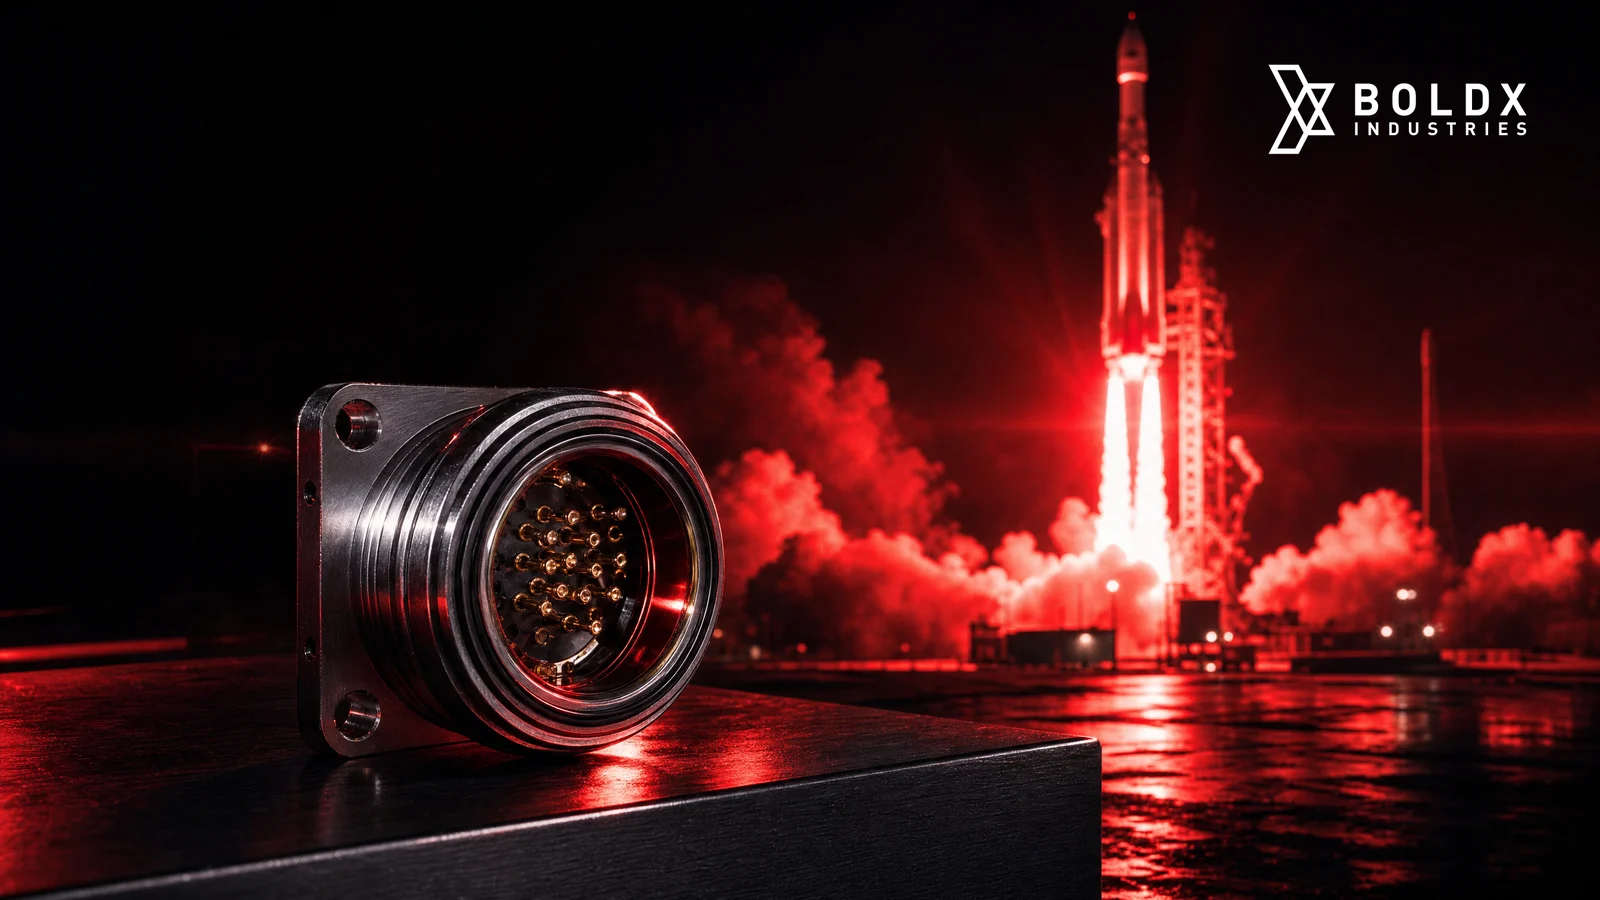
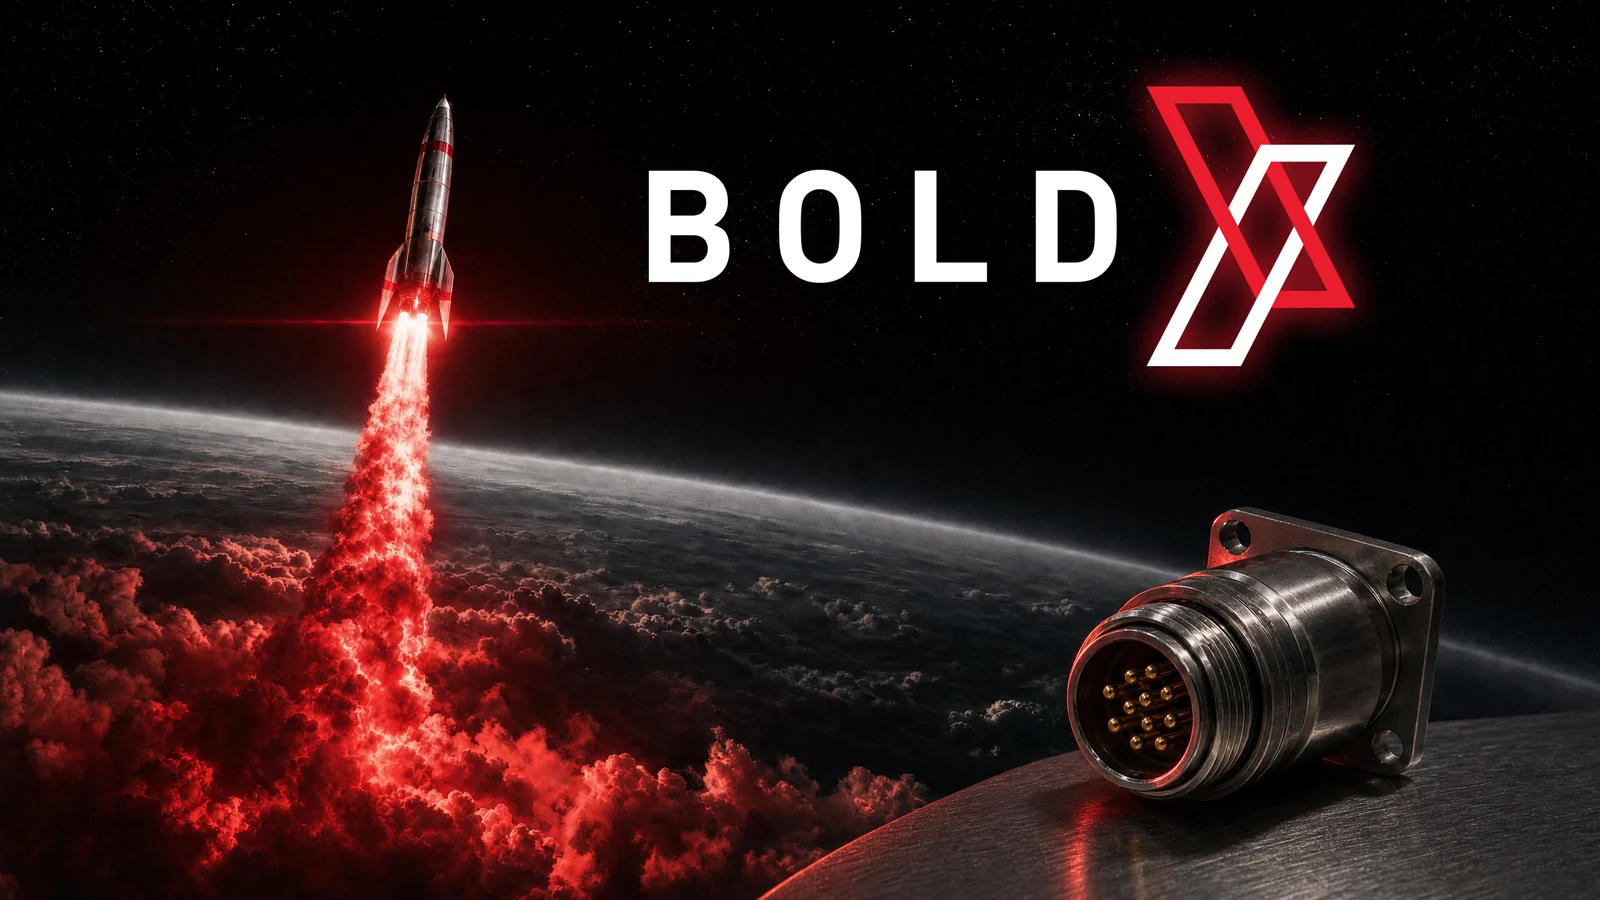
feat: the hero is a rocket above the clouds with the X standing alone, the numbers band is ruled, and the stack names n8n and Popl
- Hero image rebuilt from the chosen scene with a connector added; the real logo vectors are split so BOLD and the X mark sit apart; the image now runs full width under the headline
- InEX comes off the ledger and every count of launches; the fourth stat is the $24M target
- Numbers band: four ruled cells in order, pipeline to target, shorter parallel labels
- Flask and Next.js leave all site copy; n8n and Popl join the stack; Popl gets its own ledger entry
- Both Zoom backgrounds come off the gallery at Paul's word

diff --git a/src/app/work/boldx/BoldxPage.tsx b/src/app/work/boldx/BoldxPage.tsx
@@ -53,30 +53,32 @@ export function BoldxPage() {
       <main className="relative bg-bg-primary text-text-primary">
         {/* HERO */}
         <section className="px-6 md:px-12 lg:px-20 pt-28 md:pt-36 pb-16 md:pb-24">
-          <div className="max-w-6xl mx-auto grid md:grid-cols-[1.1fr_0.9fr] gap-12 md:gap-16 items-center">
-            <div>
-              <motion.p
-                initial={{ opacity: 0 }}
-                animate={{ opacity: 1 }}
-                transition={{ duration: 0.6, ease }}
-                className="font-mono text-[11px] md:text-xs uppercase tracking-[0.22em] text-accent-teal mb-6"
-              >
-                {c.eyebrow}
-              </motion.p>
-              <motion.h1
-                initial={{ opacity: 0, y: 24 }}
-                animate={{ opacity: 1, y: 0 }}
-                transition={{ duration: 0.9, ease }}
-                className="font-heading font-black leading-[0.95] tracking-[-0.03em] mb-6"
-                style={{ fontSize: "clamp(2.75rem, 7vw, 5.5rem)" }}
-              >
-                {c.hero.h1}
-              </motion.h1>
+          <div className="max-w-6xl mx-auto grid gap-10 md:gap-14">
+            <div className="grid md:grid-cols-[1.1fr_0.9fr] gap-6 md:gap-16 md:items-end">
+              <div>
+                <motion.p
+                  initial={{ opacity: 0 }}
+                  animate={{ opacity: 1 }}
+                  transition={{ duration: 0.6, ease }}
+                  className="font-mono text-[11px] md:text-xs uppercase tracking-[0.22em] text-accent-teal mb-6"
+                >
+                  {c.eyebrow}
+                </motion.p>
+                <motion.h1
+                  initial={{ opacity: 0, y: 24 }}
+                  animate={{ opacity: 1, y: 0 }}
+                  transition={{ duration: 0.9, ease }}
+                  className="font-heading font-black leading-[0.95] tracking-[-0.03em] [text-wrap:balance]"
+                  style={{ fontSize: "clamp(2.75rem, 7vw, 5.5rem)" }}
+                >
+                  {c.hero.h1}
+                </motion.h1>
+              </div>
               <motion.p
                 initial={{ opacity: 0, y: 16 }}
                 animate={{ opacity: 1, y: 0 }}
                 transition={{ duration: 0.7, delay: 0.3, ease }}
-                className="font-body text-text-secondary text-lg md:text-xl leading-relaxed max-w-xl"
+                className="font-body text-text-secondary text-lg leading-relaxed max-w-xl"
               >
                 {c.hero.sub}
               </motion.p>
@@ -93,7 +95,7 @@ export function BoldxPage() {
                 alt={c.hero.image.alt}
                 width={1600}
                 height={900}
-                className="w-full h-auto rounded-xl shadow-[0_24px_70px_rgba(0,0,0,0.28)]"
+                className="w-full h-auto rounded-xl shadow-[0_30px_80px_rgba(0,0,0,0.32)]"
               />
             </motion.figure>
           </div>
@@ -162,24 +164,28 @@ export function BoldxPage() {
         {/* NUMBERS */}
         <section className="px-6 md:px-12 lg:px-20 py-16 md:py-24 bg-bg-dark text-text-inverse">
           <div className="max-w-5xl mx-auto">
-            <div className="flex items-center gap-3 mb-12">
+            <div className="flex items-center gap-3 mb-10 md:mb-14">
               <span className="block w-1.5 h-1.5 rounded-full bg-accent-coral" aria-hidden />
               <span className="font-mono text-[11px] uppercase tracking-[0.2em] text-text-muted">
                 {c.numbers.label}
               </span>
+              <span className="h-[1px] flex-1 bg-white/15" aria-hidden />
             </div>
-            <div className="grid grid-cols-2 lg:grid-cols-4 gap-x-8 gap-y-12">
+            <dl className="m-0 grid grid-cols-2 lg:grid-cols-4 gap-y-10">
               {c.numbers.stats.map((stat) => (
-                <div key={stat.label}>
-                  <div className="font-heading font-black tracking-[-0.03em] leading-[0.9] tabular-nums text-[clamp(2.5rem,6vw,4.5rem)]">
-                    {stat.value}
-                  </div>
-                  <div className="font-mono text-[11px] uppercase tracking-[0.18em] text-text-muted mt-4 leading-relaxed max-w-[22ch]">
+                <div
+                  key={stat.label}
+                  className="flex flex-col-reverse justify-end gap-4 border-l border-white/15 pl-4 md:pl-6 pr-2"
+                >
+                  <dt className="font-mono text-[11px] uppercase tracking-[0.18em] text-text-muted leading-relaxed">
                     {stat.label}
-                  </div>
+                  </dt>
+                  <dd className="m-0 font-heading font-black tracking-[-0.03em] leading-[0.9] tabular-nums text-[clamp(2.25rem,4.6vw,3.75rem)]">
+                    {stat.value}
+                  </dd>
                 </div>
               ))}
-            </div>
+            </dl>
           </div>
         </section>
 

diff --git a/src/app/work/boldx/content.ts b/src/app/work/boldx/content.ts
@@ -22,7 +22,7 @@ export const boldxCaseStudy = {
     sub: "A hermetic-connector and precision-machining manufacturer selling into aerospace and defense. For nearly two years I owned go-to-market end to end: brand, marketing, pipeline, close and customer success, with a three-person team. Here is what I built and what it did.",
     image: {
       src: "/work/boldx/brand-rocket.webp",
-      alt: "A machined stainless hermetic connector with gold pins in the foreground, a rocket lifting off behind it in deep red light, the BoldX Industries mark in the sky",
+      alt: "A rocket climbing above the clouds on a column of red fire, a machined hermetic connector in the foreground, and BOLD in white across the black of space with the BoldX X mark standing alone beside it",
     },
   },
   start: {
@@ -87,7 +87,7 @@ export const boldxCaseStudy = {
         {
           title: "Quote-to-HubSpot app",
           detail:
-            "Next.js and OCR. Reads supplier and customer quote PDFs and creates the deals in HubSpot. Seventeen deals and about $270K of pipeline moved in one observed day.",
+            "Reads supplier and customer quote PDFs with OCR and creates the deals in HubSpot. Seventeen deals and about $270K of pipeline moved in one observed day.",
         },
         {
           title: "Quote-expiry email campaign",
@@ -97,7 +97,7 @@ export const boldxCaseStudy = {
         {
           title: "Orders dashboard",
           detail:
-            "Flask over the ERP exports: open orders, declined sales, pending quotes, week over week.",
+            "Built over the ERP exports: open orders, declined sales, pending quotes, week over week.",
         },
         {
           title: "Weekly pipeline reporting",
@@ -114,6 +114,11 @@ export const boldxCaseStudy = {
           detail:
             "Stood up company-wide communication on Microsoft Teams and SharePoint so sales, operations and the shop floor ran one process.",
         },
+        {
+          title: "Popl, company-wide",
+          detail:
+            "Integrated Popl.co across the company: branded digital business cards with a QR code, so a new contact was one scan away.",
+        },
       ],
     },
     {
@@ -123,10 +128,6 @@ export const boldxCaseStudy = {
           title: "American Labor Ladders",
           detail:
             "Product site and manual for the Game Changer Smart Ladder, the first sensor-equipped ladder built for injury prevention. Live at americanlaborladders.com.",
-        },
-        {
-          title: "InEX",
-          detail: "Launch materials for a third product line.",
         },
         {
           title: "Content engine",
@@ -149,10 +150,10 @@ export const boldxCaseStudy = {
   numbers: {
     label: "The numbers",
     stats: [
-      { value: "$11.6M", label: "quoted through the pipeline I built" },
+      { value: "$11.6M", label: "quoted through my pipeline" },
       { value: "147", label: "deals closed-won" },
       { value: "$500K", label: "inventory buyout negotiated" },
-      { value: "2", label: "product lines launched" },
+      { value: "$24M", label: "revenue target set" },
     ],
   },
   broke: {
@@ -167,8 +168,8 @@ export const boldxCaseStudy = {
       "HubSpot",
       "Claude",
       "ElevenLabs",
-      "Next.js",
-      "Flask",
+      "n8n",
+      "Popl",
       "Canva",
       "Higgsfield",
       "Craft CMS",
@@ -187,8 +188,6 @@ export const boldxCaseStudy = {
       { src: "/work/boldx/chart-seal-types.webp", alt: "Chart of hermetic seal types from a BoldX article", caption: "From the glass-to-metal sealing article" },
       { src: "/work/boldx/linkedin-banner.webp", alt: "BoldX LinkedIn banner", caption: "LinkedIn banner" },
       { src: "/work/boldx/tee.webp", alt: "White T-shirt mockup with the BoldX mark", caption: "Apparel" },
-      { src: "/work/boldx/zoom-background.webp", alt: "BoldX Zoom background, dark version with the white logo", caption: "Zoom background" },
-      { src: "/work/boldx/zoom-background-2026.webp", alt: "Virtual meeting background: Paul Skidmore, VP, Sales & Marketing, a Connect with me QR code and the BoldX logo over brushed metal", caption: "Zoom background with name and title" },
     ] as GalleryItem[],
   },
   closing: {

diff --git a/src/lib/data.ts b/src/lib/data.ts
@@ -78,7 +78,7 @@ export const careerEntries: CareerEntry[] = [
     dateRange: "2025 — 2026",
     type: "corporate",
     description:
-      "Owned go-to-market end to end for an aerospace and defense manufacturer of hermetic connectors and precision CNC parts: brand, marketing, pipeline, close and customer success, with a three-person team, pacing about 20% year-over-year growth. Rebuilt the brand from the bible up: strategy and identity, a 32-page catalog, the 12-month marketing plan and the 2026–2028 sales strategy. Put the quote pipeline on HubSpot in real time, built with AI agents, where before it took a phone call or an emailed spreadsheet; $11.6M quoted and 147 deals closed-won. Converted one-off work into long-term contracts, negotiated a $500K inventory buyout, and set the 2026 revenue target at $24M. Launched the Smart Ladder and InEX, built the American Labor Ladders site, and ran the company's PBExpo 2026 booth.",
+      "Owned go-to-market end to end for an aerospace and defense manufacturer of hermetic connectors and precision CNC parts: brand, marketing, pipeline, close and customer success, with a three-person team, pacing about 20% year-over-year growth. Rebuilt the brand from the bible up: strategy and identity, a 32-page catalog, the 12-month marketing plan and the 2026–2028 sales strategy. Put the quote pipeline on HubSpot in real time, built with AI agents, where before it took a phone call or an emailed spreadsheet; $11.6M quoted and 147 deals closed-won. Converted one-off work into long-term contracts, negotiated a $500K inventory buyout, and set the 2026 revenue target at $24M. Launched the Smart Ladder, built the American Labor Ladders site, and ran the company's PBExpo 2026 booth.",
     metric: { value: "147", label: "deals closed-won" },
     tags: ["Brand Build", "Aerospace & Defense", "AI-Powered Sales", "HubSpot/ERP Integration"],
   },
@@ -113,7 +113,7 @@ export const skillBlocks: SkillBlock[] = [
     title: "Product Strategy",
     description:
       "From concept to MVP, fast. Using AI to accelerate prototyping, build internal tools, and ship products that would've taken teams of ten.",
-    tools: "Next.js, Rapid Prototyping, Claude Code",
+    tools: "Rapid Prototyping, Claude Code",
   },
   {
     title: "Brand & Creative",
@@ -148,7 +148,7 @@ export const projects: Project[] = [
     tag: "Wireframe Audit",
     description:
       "AI-built interactive wireframes exploring layout directions for a luxury fragrance brand.",
-    tech: "Next.js, Claude Code, HTML/CSS Prototyping",
+    tech: "Claude Code, HTML/CSS Prototyping",
     image: "/projects/wireframe-prototype.png",
   },
   {
@@ -181,7 +181,7 @@ export const projects: Project[] = [
     tag: "Quiz Engine",
     description:
       "A 7-step quiz that turns a person's answers into personalized supplement recommendations across nine brand partners, ending on a results page built to be shared.",
-    tech: "Next.js, Supabase, Tailwind",
+    tech: "Supabase, Tailwind",
     image: "/projects/human-os.png",
   },
   {
@@ -189,7 +189,7 @@ export const projects: Project[] = [
     tag: "Parallax Experience",
     description:
       "A spiritual wellness platform built around scroll-driven parallax motion — custom GSAP and Framer Motion choreography with Lenis smooth-scroll on every section.",
-    tech: "Next.js, GSAP, Framer Motion, Lenis",
+    tech: "GSAP, Framer Motion, Lenis",
     image: "/projects/spiritual-site.png",
     video: "/projects/spiritual-site.mp4",
   },

diff --git a/src/__tests__/lib/content-boldx-case-study.test.ts b/src/__tests__/lib/content-boldx-case-study.test.ts
@@ -48,6 +48,8 @@ describe("BoldX case study content", () => {
     expect(boldxCaseStudy.hero.image.src).toBe("/work/boldx/brand-rocket.webp");
     expect(boldxCaseStudy.hero.image.alt).toMatch(/rocket/i);
     expect(boldxCaseStudy.hero.image.alt).toMatch(/connector/i);
+    expect(boldxCaseStudy.hero.image.alt).toMatch(/clouds/i);
+    expect(boldxCaseStudy.hero.image.alt).toMatch(/X mark/);
   });
 
   it("keeps FckYourWebsite off the site", () => {
@@ -67,7 +69,7 @@ describe("BoldX case study content", () => {
     const career = careerEntries.find((e) => e.id === "boldx");
     const boldxBuilds = projects.filter((p) => /BoldX/.test(p.name + p.description));
     const claims = everything + JSON.stringify(career) + JSON.stringify(boldxBuilds);
-    expect(claims).not.toMatch(/SDR|outbound|sales[- ]intelligence|Clay|Apollo|Instantly|Heyreach|n8n/i);
+    expect(claims).not.toMatch(/SDR|outbound|sales[- ]intelligence|Clay|Apollo|Instantly|Heyreach/i);
     expect(projects.some((p) => p.name === "BoldX Sales Agent")).toBe(false);
   });
 
@@ -93,8 +95,19 @@ describe("BoldX case study content", () => {
   it("keeps the Murphy handcuff, AI quoting and 'brand guidelines' off every BoldX claim", () => {
     const claims = everything + JSON.stringify(boldxFeature) + JSON.stringify(data);
     expect(claims).not.toMatch(/Murphy|handcuff|AI quoting|automated? quoting|guidelines/i);
-    const lines = boldxCaseStudy.numbers.stats.find((s) => /product lines/.test(s.label));
-    expect(lines?.value).toBe("2");
+  });
+
+  it("keeps InEX off every BoldX claim", () => {
+    const claims = everything + JSON.stringify(boldxFeature) + JSON.stringify(data);
+    expect(claims).not.toMatch(/\bInEX\b/i);
+    expect(claims).not.toMatch(/two (launches|product lines)/i);
+  });
+
+  it("runs the numbers in order, pipeline to target, with short parallel labels", () => {
+    const { stats } = boldxCaseStudy.numbers;
+    expect(stats.map((s) => s.value)).toEqual(["$11.6M", "147", "$500K", "$24M"]);
+    for (const stat of stats) expect(stat.label.length).toBeLessThanOrEqual(27);
+    expect(stats.some((s) => /product lines/.test(s.label))).toBe(false);
   });
 
   it("says the quote pipeline was built with AI agents to see quotes live, and the expiry emails moved customers to buy", () => {
@@ -105,7 +118,16 @@ describe("BoldX case study content", () => {
     expect(expiry?.detail).toMatch(/buy|purchase|order/i);
   });
 
-  it("shows both Zoom backgrounds in the gallery", () => {
-    expect(boldxCaseStudy.gallery.items.filter((i) => /zoom/i.test(i.caption))).toHaveLength(2);
+  it("shows no Zoom background Paul did not build", () => {
+    expect(boldxCaseStudy.gallery.items.filter((i) => /zoom/i.test(i.caption + i.src))).toHaveLength(0);
+  });
+
+  it("names no Flask or Next.js anywhere on the site, and credits n8n and Popl", () => {
+    const claims = everything + JSON.stringify(boldxFeature) + JSON.stringify(data);
+    expect(claims).not.toMatch(/flask|next\.?js/i);
+    expect(boldxCaseStudy.stack.items).toContain("n8n");
+    expect(boldxCaseStudy.stack.items).toContain("Popl");
+    const ledger = boldxCaseStudy.ledger.flatMap((g) => g.entries);
+    expect(ledger.some((e) => /Popl/.test(e.title) && /company/i.test(e.title + e.detail))).toBe(true);
   });
 });

diff --git a/src/__tests__/lib/content-boldx-feature.test.ts b/src/__tests__/lib/content-boldx-feature.test.ts
@@ -27,7 +27,7 @@ describe("BoldX home-page highlight", () => {
 
   it("keeps the same guards as the case study", () => {
     expect(everything).not.toMatch(/\$1[789](\.\d)?M|\$25M|\$40M|\$50M|17,7|17,0|18,8/);
-    expect(everything).not.toMatch(/SDR|outbound|sales[- ]intelligence|Clay|Apollo|n8n/i);
+    expect(everything).not.toMatch(/SDR|outbound|sales[- ]intelligence|Clay|Apollo/i);
     expect(everything).not.toMatch(/BOLDx|BoldX Enterprises|BXE|Power of|Àṣẹ|Ase\b/);
   });
 
@@ -37,6 +37,13 @@ describe("BoldX home-page highlight", () => {
     for (const project of projects) expect(inPublic(project.image), project.name).toBe(true);
     for (const item of boldxCaseStudy.gallery.items) expect(inPublic(item.src), item.src).toBe(true);
     expect(inPublic(boldxCaseStudy.hero.image.src)).toBe(true);
+  });
+
+  it("counts no launches the site no longer shows, in metadata or the Record card", () => {
+    for (const file of ["src/app/work/boldx/page.tsx", "src/components/redesign/RecordGallery.tsx"]) {
+      const source = fs.readFileSync(path.join(process.cwd(), file), "utf8");
+      expect(source, file).not.toMatch(/(two|three) (launches|product lines)|\bInEX\b/i);
+    }
   });
 
   it("keeps the month-and-year stamps off the home intro stats", () => {

diff --git a/src/components/redesign/RecordGallery.tsx b/src/components/redesign/RecordGallery.tsx
@@ -18,7 +18,7 @@ const typeLabels: Record<string, string> = {
  */
 const descriptionOverrides: Record<string, string> = {
   boldx:
-    "Owned go-to-market end to end: brand, marketing, pipeline, close and customer success. Rebuilt the brand from the bible up, put the quote pipeline on HubSpot in real time with AI agents, converted one-off work into long-term contracts with a $500K inventory buyout, launched two product lines, and set the 2026 target at $24M.",
+    "Owned go-to-market end to end: brand, marketing, pipeline, close and customer success. Rebuilt the brand from the bible up, put the quote pipeline on HubSpot in real time with AI agents, converted one-off work into long-term contracts with a $500K inventory buyout, launched the Smart Ladder, and set the 2026 target at $24M.",
 };
 
 /**

diff --git a/src/app/work/boldx/feature.ts b/src/app/work/boldx/feature.ts
@@ -2,7 +2,7 @@
 export const boldxFeature = {
   eyebrow: "[ Case study — BoldX, 2025–2026 ]",
   title: "I built the BoldX brand.",
-  sub: "Hermetic connectors and precision machining for aerospace and defense. For nearly two years I owned go-to-market end to end: the brand bible, the catalog, the plan, quote-to-close on HubSpot, two launches, the contracts and the number.",
+  sub: "Hermetic connectors and precision machining for aerospace and defense. For nearly two years I owned go-to-market end to end: the brand bible, the catalog, the plan, quote-to-close on HubSpot, the Smart Ladder launch, the contracts and the number.",
   facts: [
     { value: "25 pages", label: "Brand Strategy & Branding Bible" },
     { value: "32 pages", label: "Product catalog, every QPL series" },

diff --git a/src/app/work/boldx/page.tsx b/src/app/work/boldx/page.tsx
@@ -3,7 +3,7 @@ import { BoldxPage } from "./BoldxPage";
 
 const title = "I built the BoldX brand — Paul Skidmore";
 const description =
-  "Case study, 2025–2026: brand bible, identity, catalog and plan for an aerospace manufacturer, three launches, and the systems behind $11.6M in quoted pipeline.";
+  "Case study, 2025–2026: brand bible, identity, catalog and plan for an aerospace manufacturer, plus the systems behind $11.6M in quoted pipeline.";
 
 export const metadata: Metadata = {
   title,
